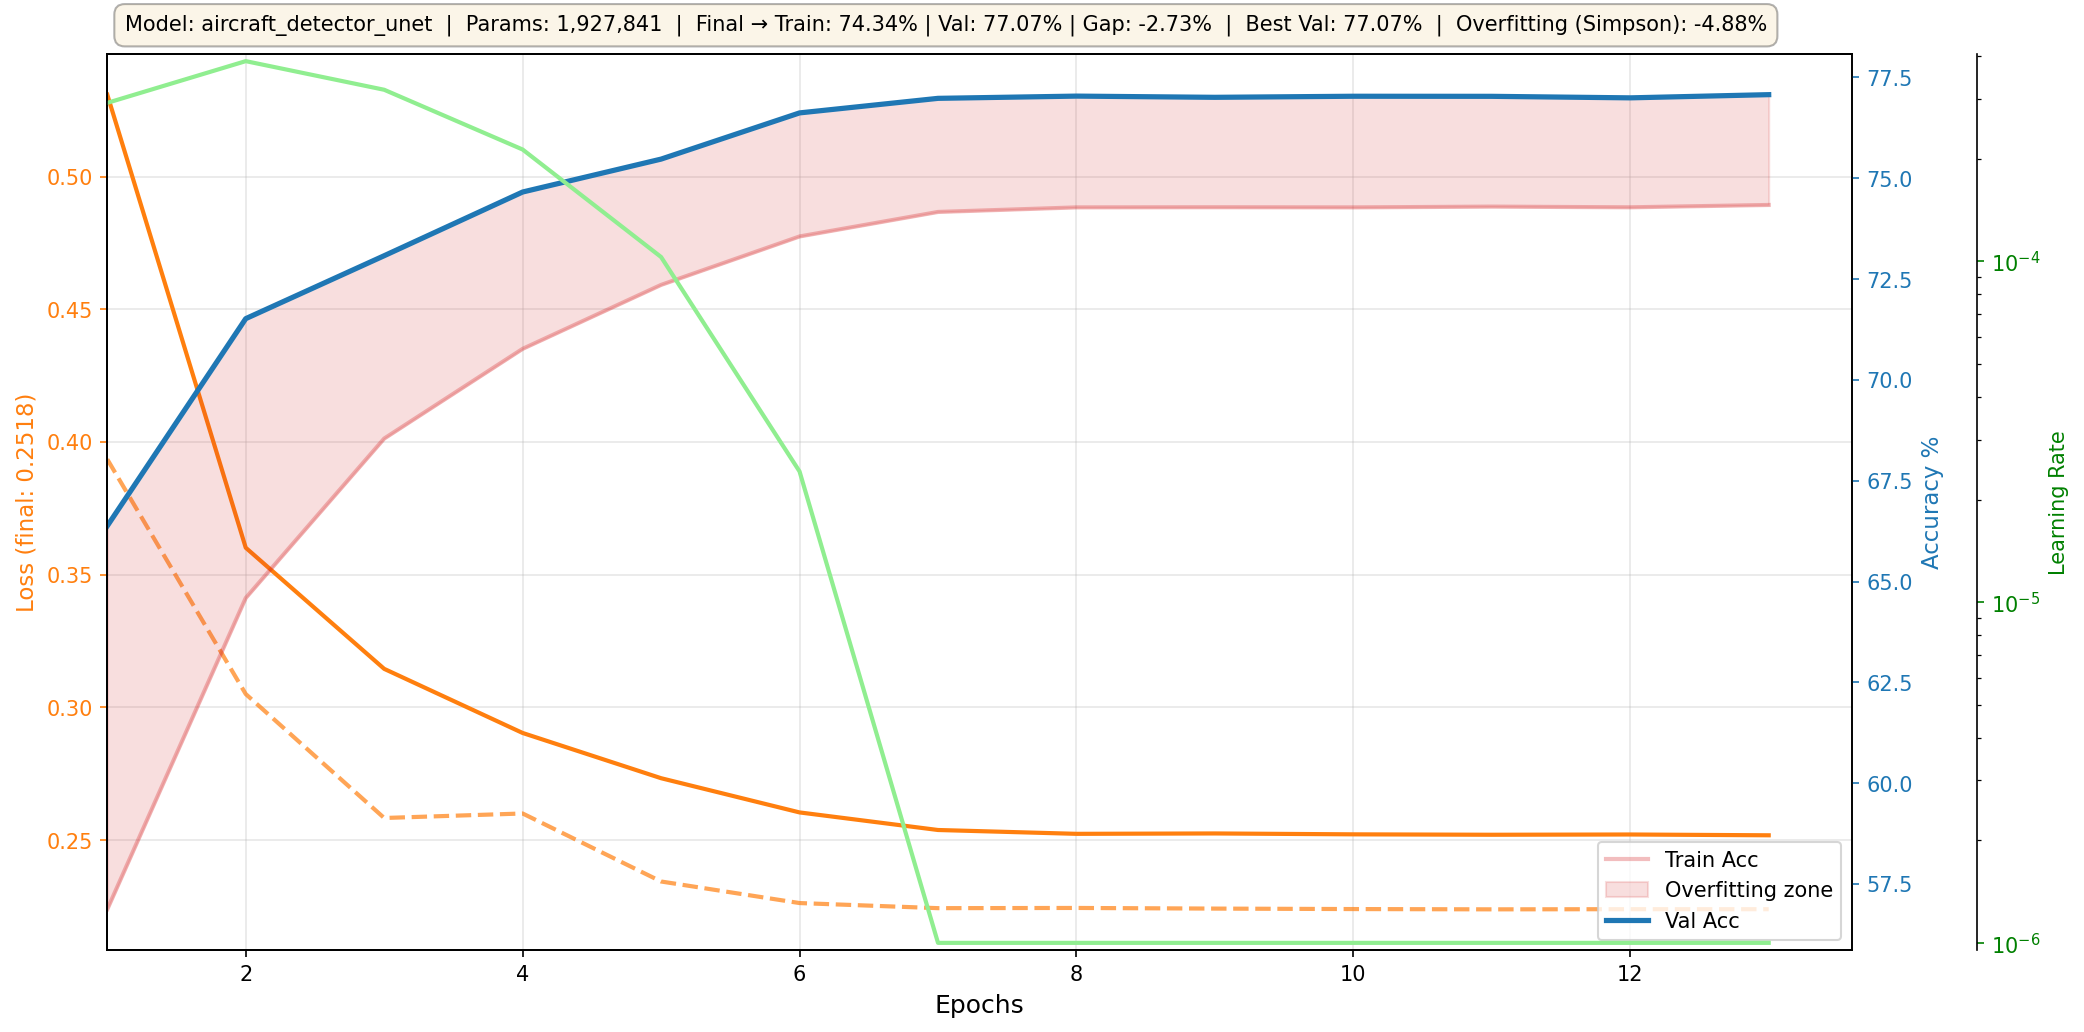
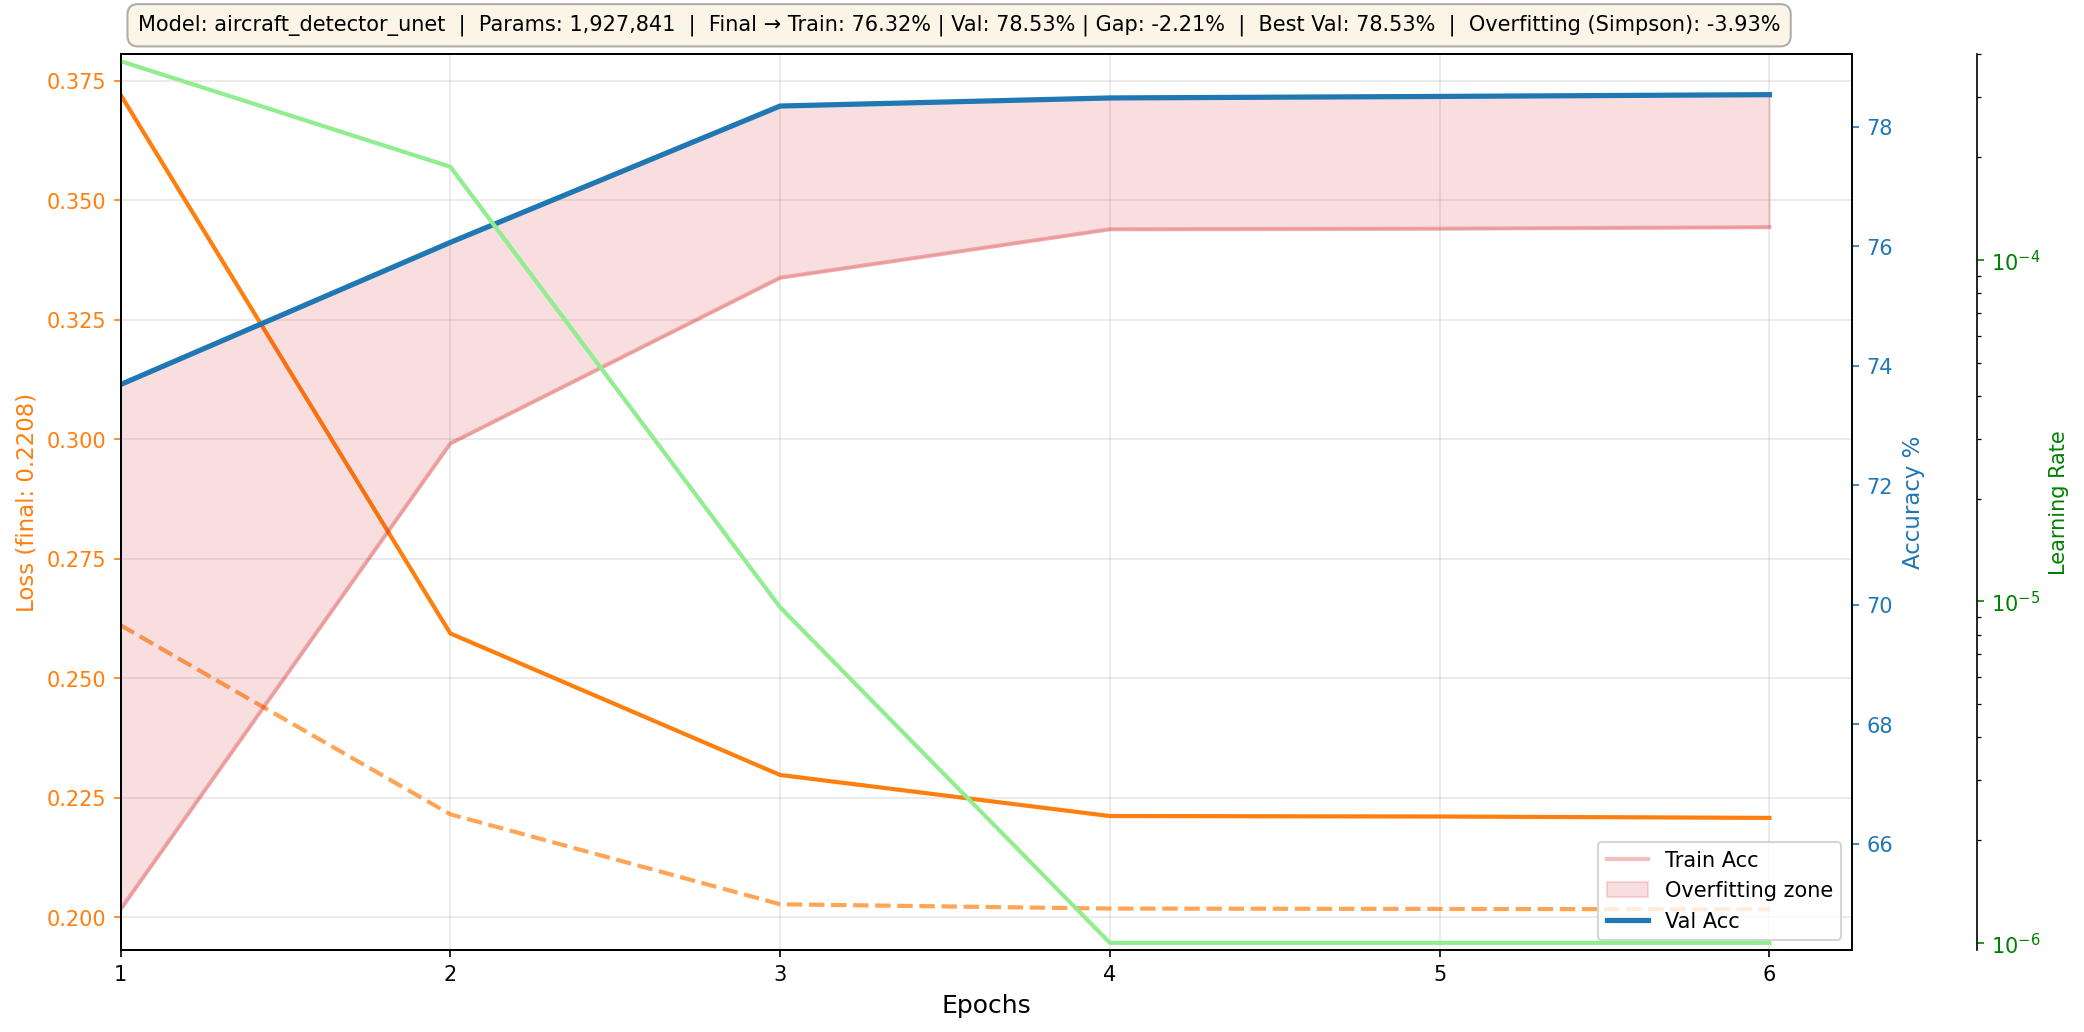
reduce img quality to 75 for video generation, and grouping detection and classification for detection .npz

diff --git a/fighterjet_detection_dataset_tools.py b/fighterjet_detection_dataset_tools.py
@@ -8,7 +8,7 @@ from typing import List, Tuple, Dict
 import cv2
 
 def process_detection_dataset(
-    root_dir: str,
+    root_dirs: List[str],
     output_dir: str,
     split_name: str = "train",
     target_size: Tuple[int, int] = (224, 224),  # ✅ Valeur par défaut changée à 224x224
@@ -27,7 +27,7 @@ def process_detection_dataset(
         grayscale: Si True, convertit les images en niveaux de gris (1 canal) au lieu de RGB (3 canaux)
     """
     mode_str = "Grayscale (1 canal)" if grayscale else "RGB (3 canaux)"
-    print(f"🚀 Traitement Détection ({split_name}) : {root_dir} -> {target_size} [{mode_str}]")
+    print(f"🚀 Traitement Détection ({split_name}) : {len(root_dirs)} dossiers -> {target_size} [{mode_str}]")
     
     # Structure pour regrouper les infos par image
     # Clé: nom_image_source (ex: "8a3ab5634b9ab46c.jpg")
@@ -35,7 +35,13 @@ def process_detection_dataset(
     images_data: Dict[str, Dict] = {}
     
     # 1. Scanner tous les JSONs pour regrouper par image
-    json_files = glob.glob(os.path.join(root_dir, "**", "*.json"), recursive=True)
+    json_files = []
+    for directory in root_dirs:
+        if os.path.exists(directory):
+            json_files.extend(glob.glob(os.path.join(directory, "**", "*.json"), recursive=True))
+        else:
+            print(f"⚠️  Dossier introuvable : {directory}")
+            
     print(f"📚 Analyse de {len(json_files)} fichiers JSON...")
     
     for json_file in tqdm.tqdm(json_files, desc="Grouping annotations"):
@@ -159,8 +165,14 @@ if __name__ == "__main__":
     config = get_dataset_config("FIGHTERJET_DETECTION")
     
     # Configuration des chemins
-    TRAIN_DIR = "/home/aobled/Downloads/Aircraft_DATASET/detection/train"
-    VAL_DIR = "/home/aobled/Downloads/Aircraft_DATASET/detection/val"
+    TRAIN_DIRS = [
+        "/home/aobled/Downloads/Aircraft_DATASET/detection/train",
+        "/home/aobled/Downloads/Aircraft_DATASET/classification/train"
+    ]
+    VAL_DIRS = [
+        "/home/aobled/Downloads/Aircraft_DATASET/detection/val",
+        "/home/aobled/Downloads/Aircraft_DATASET/classification/val"
+    ]
     OUTPUT_DIR = os.path.dirname(config["output_prefix"])
     
     print("🚀 Démarrage de la préparation des données de DÉTECTION...")
@@ -182,29 +194,24 @@ if __name__ == "__main__":
     USE_GRAYSCALE = True  # ✅ Recommandé: 3× moins de mémoire, même performance
     
     # 1. Traiter le Training Set
-    if os.path.exists(TRAIN_DIR):
-        process_detection_dataset(
-            TRAIN_DIR, 
-            OUTPUT_DIR, 
-            split_name="train", 
-            target_size=config.get("image_size", (224, 224)),
-            max_boxes=config.get("max_boxes", 20),
-            chunk_size=24000,
-            grayscale=config.get("grayscale", True)
-        )
-    else:
-        print(f"❌ Dossier train non trouvé: {TRAIN_DIR}")
+    process_detection_dataset(
+        TRAIN_DIRS, 
+        OUTPUT_DIR, 
+        split_name="train", 
+        target_size=config.get("image_size", (224, 224)),
+        max_boxes=config.get("max_boxes", 20),
+        chunk_size=25000,
+        grayscale=config.get("grayscale", True)
+    )
 
     # 2. Traiter le Val Set
-    if os.path.exists(VAL_DIR):
-        process_detection_dataset(
-            VAL_DIR, 
-            OUTPUT_DIR, 
-            split_name="val", 
-            target_size=config.get("image_size", (224, 224)),
-            max_boxes=config.get("max_boxes", 20),
-            chunk_size=24000,
-            grayscale=config.get("grayscale", True)
-        )
-    else:
-        print(f"❌ Dossier val non trouvé: {VAL_DIR}")
+    process_detection_dataset(
+        VAL_DIRS, 
+        OUTPUT_DIR, 
+        split_name="val", 
+        target_size=config.get("image_size", (224, 224)),
+        max_boxes=config.get("max_boxes", 20),
+        chunk_size=25000,
+        grayscale=config.get("grayscale", True)
+    )
+

diff --git a/data_management.py b/data_management.py
@@ -318,8 +318,9 @@ class DetectionDataset:
                         px = tf.cast(sx * tf.cast(img_w, tf.float32), tf.int32)
                         py = tf.cast(sy * tf.cast(img_h, tf.float32), tf.int32)
                         
-                        pad_h = tf.cast(0.20 * tf.cast(img_h, tf.float32), tf.int32)
-                        pad_w = tf.cast(0.20 * tf.cast(img_w, tf.float32), tf.int32)
+                        # Le padding doit s'adapter dynamiquement au trans_factor pour éviter un débordement
+                        pad_h = tf.cast(trans_factor * tf.cast(img_h, tf.float32), tf.int32) + 1
+                        pad_w = tf.cast(trans_factor * tf.cast(img_w, tf.float32), tf.int32) + 1
                         
                         padded_img = tf.pad(i, paddings=[[pad_h, pad_h], [pad_w, pad_w], [0, 0]], mode='REFLECT')
                         start_y = pad_h - py
@@ -332,8 +333,8 @@ class DetectionDataset:
                         px = tf.cast(sx * tf.cast(img_w, tf.float32), tf.int32)
                         py = tf.cast(sy * tf.cast(img_h, tf.float32), tf.int32)
                         
-                        pad_h = tf.cast(0.20 * tf.cast(img_h, tf.float32), tf.int32)
-                        pad_w = tf.cast(0.20 * tf.cast(img_w, tf.float32), tf.int32)
+                        pad_h = tf.cast(trans_factor * tf.cast(img_h, tf.float32), tf.int32) + 1
+                        pad_w = tf.cast(trans_factor * tf.cast(img_w, tf.float32), tf.int32) + 1
                         
                         padded_mask = tf.pad(m, paddings=[[pad_h, pad_h], [pad_w, pad_w], [0, 0]], mode='CONSTANT')
                         start_y = pad_h - py

diff --git a/dataset_configs.py b/dataset_configs.py
@@ -361,7 +361,7 @@ DATASET_CONFIGS = {
         
         # === Hyperparamètres TPU ===
         "tpu": {
-            "micro_batch_size": 64,    # Batch ramené à 32 pour plus de stochasticité (YOLO)
+            "micro_batch_size": 128,    # Batch ok à 65, test avec 128
             "accum_steps": 1,          # Accumulation pour simuler 64
             "learning_rate": 4e-4,     # LR légèrement remonté
             "weight_decay": 5e-5,
@@ -380,11 +380,11 @@ DATASET_CONFIGS = {
         # === Entraînement ===
         "optimizer": "adamw",
         "lr_schedule": "cosine",
-        "epochs": 20,
+        "epochs": 8,
 
         "patience": 5,
-        "warmup_steps": 2000,          # Préchauffage lent sur ~4 epochs
-        "decay_steps": 10000,          # 🔥 CORRIGÉ : Le LR chutera maintenant vers zéro autour de l'epoch 25 (au lieu de 200)
+        "warmup_steps": 400,           # Préchauffage rapide sur ~0.15 epoch
+        "decay_steps": 22000,          # Le LR chutera vers zéro autour de la fin de l'epoch 8
         
         # === Évaluation/Visualization ===
         "metric_method": "segmentation_iou",

diff --git a/bounding_boxes_with_classification_from_video_generation.py b/bounding_boxes_with_classification_from_video_generation.py
@@ -611,7 +611,7 @@ if __name__ == "__main__":
                     # SAUVEGARDE IMAGE
                     # ==================================================
                     output_path = os.path.join(OUTPUT_DIR, f"frame_{target_idx:06d}.jpg")
-                    cv2.imwrite(output_path, canvas)
+                    cv2.imwrite(output_path, canvas, [int(cv2.IMWRITE_JPEG_QUALITY), 75])
                     saved_count += 1
                     
                 frames_buffer.clear()
@@ -647,7 +647,7 @@ if __name__ == "__main__":
                 )
 
                 output_path = os.path.join(OUTPUT_DIR, f"frame_{target_idx:06d}.jpg")
-                cv2.imwrite(output_path, canvas)
+                cv2.imwrite(output_path, canvas, [int(cv2.IMWRITE_JPEG_QUALITY), 75])
                 saved_count += 1
                 
             frames_buffer.clear()

diff --git a/tools/boxes_process_manual_tkinter.py b/tools/boxes_process_manual_tkinter.py
@@ -1271,12 +1271,12 @@ class PhotoViewer:
     def quit_app(self):
         self.root.destroy()
 
-
+    
 CROP_HEIGHT = 1  # Hauteur en pixels à croper (0 = désactivé)
 AUTO_CROP = False  # Croper automatiquement lors de la sauvegarde (touche 's')
 CATEGORY_NAME = 'unknown'
 if __name__ == "__main__":
-    root_folder = "/home/aobled/Downloads/tmp_multi/"
+    root_folder = "/home/aobled/Downloads/tmp_hawkeye/"
     viewer = PhotoViewer(root_folder, category_name=CATEGORY_NAME, crop_height=CROP_HEIGHT, auto_crop=AUTO_CROP)
 
 

diff --git a/tools/reporting_dataset_pandas.py b/tools/reporting_dataset_pandas.py
@@ -264,5 +264,5 @@ reporting_groupby_box_count(df)
 #reporting_at_least_one_box_not_in_class_list(df, class_list=CLASS_NAMES)
 
 #reporting_single_classe_images(df, target_class='f8', min_size=16)
-#reporting_all_images_in_class_list(df, class_list=['c5'])
+#reporting_all_images_in_class_list(df, class_list=['unknown'])
 #reporting_small_boxes(df, min_size=16)